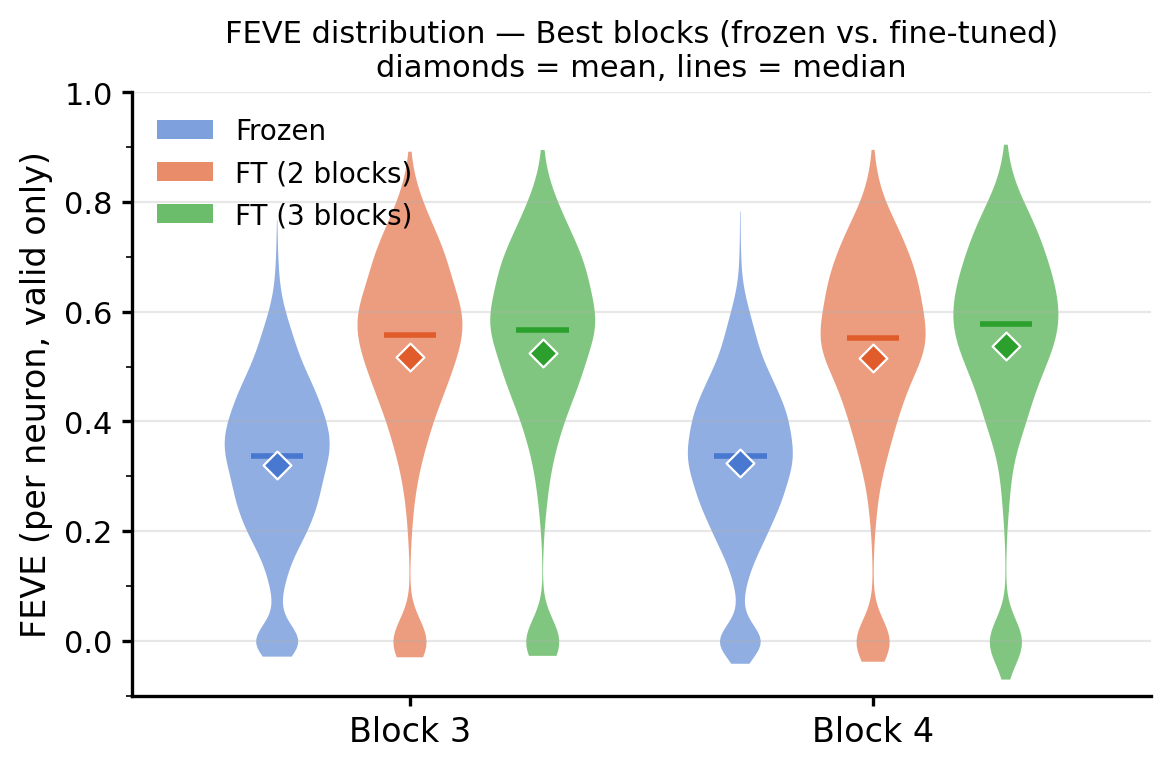
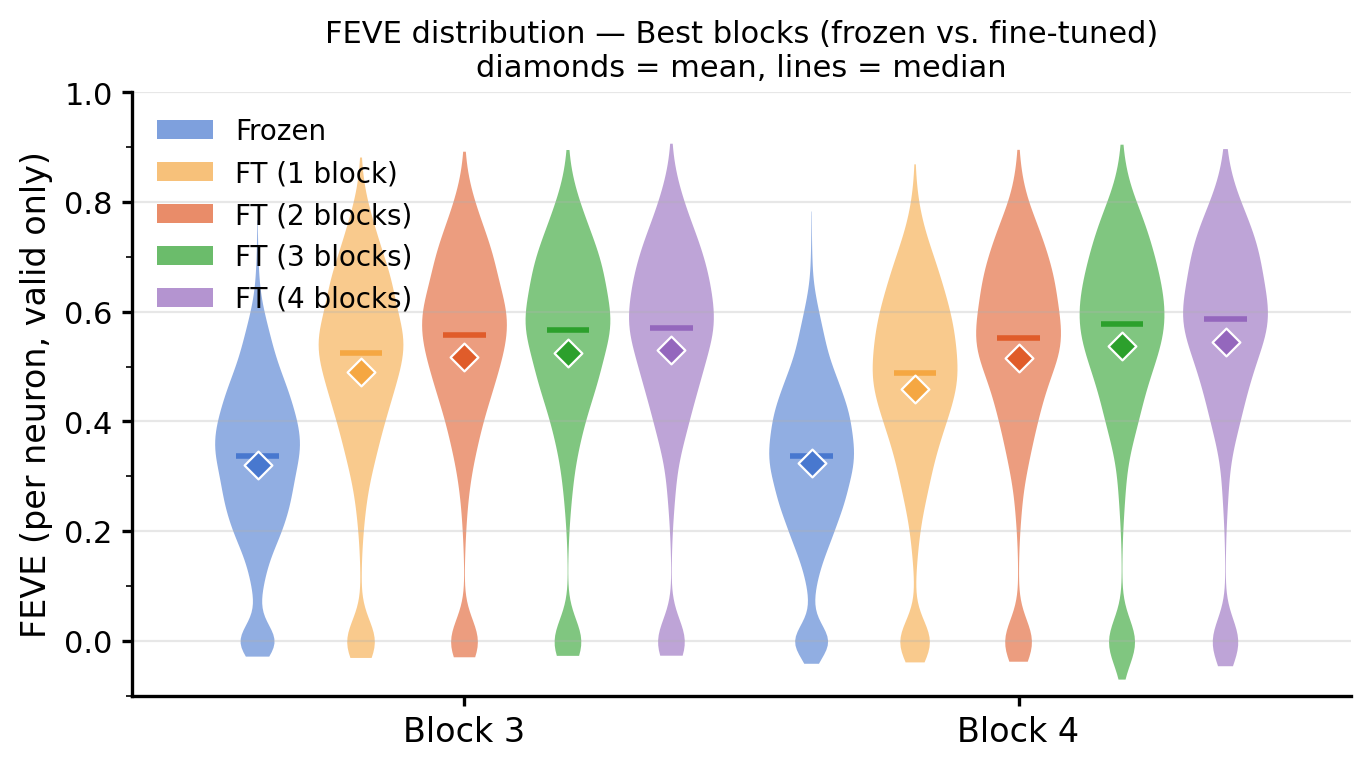
update figures

diff --git a/README.md b/README.md
@@ -5,7 +5,7 @@ Encoding models for mouse primary visual cortex (V1) using a Vision Transformer 
 Two training regimes are compared:
 
 1. **Frozen backbone** — the ViT is used purely as a feature extractor; only the linear readout is trained.
-2. **Fine-tuned backbone** — the last *N* transformer blocks are unfrozen and jointly optimized with the readout at a lower learning rate.
+2. **Fine-tuned backbone** — the last *N* transformer blocks are unfrozen and jointly optimized with the readout at a lower learning rate (experiments: N = 1, 2, 3, 4).
 
 Results are compared against the CNN fullmodel (2-layer depth-separable convolutional core + readout) to assess what large-scale visual pretraining adds to neural predictivity.
 
@@ -71,7 +71,7 @@ The key design choice is that **each 16×16 patch token is treated as one spatia
 
 **Fine-tuned backbone:**
 - Initialized from the frozen-backbone checkpoint (warm-started readout).
-- Last *N* transformer blocks unfrozen (experiments: N=2 and N=3).
+- Last *N* transformer blocks unfrozen (experiments: N = 1, 2, 3, 4).
 - Three learning-rate groups: backbone `lr=1e-5`, readout `lr=1e-3`.
 - LR schedule: CosineAnnealingLR over max 100 epochs.
 - Early stopping (patience = 5, up to 100 epochs).
@@ -86,19 +86,25 @@ All results are on mouse **FX10** (4,792 neurons, 500 held-out test images × 10
 
 <div align="center"><img src="figures/fig1a_frozen_feve_vs_block.png" width="80%"></div>
 
-Frozen ViT-S/16 features extracted from each transformer block. FEVE peaks at **blocks 3–4 (~0.32)**, indicating that low-to-mid-level representations are most predictive of V1 responses. Later blocks encode higher-level semantic content that is less relevant to V1..
+Frozen ViT-S/16 features extracted from each transformer block. FEVE peaks at **block 4 (~0.32)**, indicating that low-to-mid-level representations are most predictive of V1 responses. Performance declines steadily in later blocks as representations become more semantic.
 
 ### Figure 1b — Frozen vs. Fine-tuned ViT-S/16
 
 <div align="center"><img src="figures/fig1b_frozen_vs_ft2_feve_vs_block.png" width="80%"></div>
 
-Fine-tuning the last 2 blocks consistently improves FEVE across different ViT core depths, with the largest gains in early-to-mid blocks. The fine-tuned peak is at **block 3 (~0.39)**, up from ~0.32 frozen. The block-ordering of performance is preserved, confirming that early-block features are still most predictive after fine-tuning. W
+Fine-tuning the last 2 blocks consistently improves FEVE across all ViT depths. The fine-tuned peak rises to **block 3–4 (~0.52)**, up from ~0.32 frozen. The block-ordering of performance is preserved after fine-tuning.
 
 ### Figure 2 — FEVE distribution at best blocks (ViT-S/16)
 
 <div align="center"><img src="figures/fig2_best_blocks_comparison.png" width="80%"></div>
 
-Violin plots of per-neuron FEVE at blocks 3 and 4 across three conditions: Frozen, FT (2 blocks), and FT (3 blocks). Fine-tuning (either 2 or 3 blocks) raises the **mean FEVE from ~0.34 (frozen) to ~0.40 (fine-tuned)** at the best block. Unfreezing 3 blocks gives no clear further advantage over 2 blocks.
+Violin plots of per-neuron FEVE at blocks 3 and 4 across five conditions: Frozen, FT-1, FT-2, FT-3, and FT-4 blocks. Fine-tuning raises the mean FEVE progressively with each additional unfrozen block, from **~0.32 (frozen)** to **~0.54 (FT-4 blocks)**. 
+
+### Figure 2b — Best-block FEVE distribution (ViT-S vs. ViT-B, all fine-tuning levels)
+
+<div align="center"><img src="figures/fig2b_vits_vs_vitb_best_blocks.png" width="100%"></div>
+
+Side-by-side comparison of per-neuron FEVE at the best block for ViT-S/16 and ViT-B/16 across all fine-tuning conditions. In the frozen setting, ViT-B/16 outperforms ViT-S/16 (0.38 vs. 0.32). After fine-tuning 4 blocks, **ViT-S/16 slightly surpasses ViT-B/16** (0.5449 vs. 0.5309), suggesting the smaller model adapts more efficiently.
 
 ### Figure 3 — ViT-S/16 vs. ViT-B/16 (frozen)
 
@@ -106,58 +112,63 @@ Violin plots of per-neuron FEVE at blocks 3 and 4 across three conditions: Froze
 
 Comparing frozen ViT-Small (384-dim) and ViT-Base (768-dim). ViT-B/16 outperforms ViT-S/16 in early-to-mid blocks, peaking at **block 3 (~0.38 vs. ~0.32)**. Both models degrade sharply at later blocks.
 
-### Figure 4 — All four conditions (frozen & fine-tuned, ViT-S and ViT-B)
+### Figure 4 — All conditions (frozen & fine-tuned, ViT-S and ViT-B)
 
 <div align="center"><img src="figures/fig4_vits_vs_vitb_frozen_and_ft_feve_vs_block.png" width="80%"></div>
 
-Full comparison across both model sizes and both training regimes. All four curves peak around blocks 3–4. ViT-B/16 fine-tuned (2 blocks) achieves the highest FEVE at block 3 (~0.41). Fine-tuning narrows the gap between ViT-S and ViT-B. Later blocks (9–11) show divergent behavior after fine-tuning, likely due to overfitting with less-predictive features.
+Full comparison across both model sizes and both training regimes. All curves peak around blocks 3–4. Fine-tuning narrows the gap between ViT-S and ViT-B. Later blocks (9–11) show divergent behavior after fine-tuning, likely due to overfitting with less-predictive features.
 
-### Figure 5 — Best-block FEVE distribution (ViT-S vs. ViT-B)
+### Figure 5 — Best-block FEVE (ViT-S vs. ViT-B, frozen and FT-2)
 
 <div align="center"><img src="figures/fig5_best_block_vits_vs_vitb.png" width="80%"></div>
 
-Per-neuron FEVE at the best block for each model. Fine-tuning improves both architectures; ViT-B/16 fine-tuned achieves the highest mean (~0.42).
+Mean FEVE at the best block, comparing frozen and FT-2-block conditions for both architectures. Fine-tuning 2 blocks roughly doubles the frozen-to-FT gain relative to the old runs, reaching ~0.51 for both ViT-S and ViT-B.
 
 ### Summary table
 
-| Model | FEVE (mean, valid neurons) |
-|---|---|
-| CNN fullmodel (2-layer depth-sep. conv, 16/320 filters) | **0.6654** |
-| ViT-S/16 frozen, best block (block 3 or 4) | ~0.32 |
-| ViT-S/16 fine-tuned 2 blocks, best block (block 3) | ~0.39 |
-| ViT-B/16 frozen, best block (block 3) | ~0.38 |
-| ViT-B/16 fine-tuned 2 blocks, best block (block 3) | **~0.41** (best ViT) |
+| Model | Best block | FEVE (mean, valid neurons) |
+|---|---|---|
+| CNN fullmodel (2-layer depth-sep. conv, 16/320 filters) | — | **0.6654** |
+| ViT-S/16 frozen | 4 | 0.3234 |
+| ViT-S/16 FT-1 block | 3 | 0.4896 |
+| ViT-S/16 FT-2 blocks | 3 | 0.5168 |
+| ViT-S/16 FT-3 blocks | 3 | 0.5255 |
+| ViT-S/16 FT-4 blocks | 4 | **0.5449** (best ViT-S) |
+| ViT-B/16 frozen | 3 | 0.3787 |
+| ViT-B/16 FT-1 block | 3 | 0.4712 |
+| ViT-B/16 FT-2 blocks | 3 | 0.5112 |
+| ViT-B/16 FT-3 blocks | 3 | 0.5293 |
+| ViT-B/16 FT-4 blocks | 3 | 0.5309 |
 
-The best ViT model achieves **0.4076 FEVE**, compared to **0.6654 FEVE** for the CNN fullmodel.
+The best ViT model (ViT-S/16 FT-4 blocks) achieves **0.5449 FEVE**, compared to **0.6654 FEVE** for the CNN fullmodel.
 
 ---
 
 ## Discussion
 
-### Why does the CNN model outperform the ViT by such a large margin?
+### Why does the CNN model still outperform the ViT?
 
-The gap between the CNN fullmodel (FEVE 0.6654) and the best ViT model (FEVE ~0.41) is surprisingly large, especially given that DINOv3 achieves state-of-the-art performance on segmentation benchmarks, which require fine-grained spatial understanding. Several factors may contribute:
+Despite the large improvement from fine-tuning (0.32 → 0.54), the CNN fullmodel (FEVE 0.6654) retains a ~0.12 FEVE advantage. Several factors likely contribute:
 
 #### Spatial resolution and the patch-grid readout
 
-Mouse V1 neurons have spatially localized receptive fields. The CNN fullmodel processes the image at full spatial resolution through convolutional layers, preserving fine-grained spatial structure. In contrast, the ViT-S/16 backbone divides the 64×128 input into a coarse **4×8 grid of 16×16 patches**. By treating each patch token as a single spatial location in the readout, we effectively limit spatial precision to 16-pixel granularity. If a neuron's RF is smaller than or misaligned with a patch boundary, the spatial weight map cannot capture it accurately. The CNN, with its strided convolutions and dense spatial feature maps, is better suited to this regime.
+Mouse V1 neurons have spatially localized receptive fields. The CNN fullmodel processes the image at full spatial resolution through convolutional layers, preserving fine-grained spatial structure. In contrast, the ViT backbone divides the 64×128 input into a coarse **4×8 grid of 16×16 patches**. By treating each patch token as a single spatial location in the readout, we limit spatial precision to 16-pixel granularity. If a neuron's RF is smaller than or misaligned with a patch boundary, the spatial weight map cannot capture it accurately. The CNN, with its strided convolutions and dense spatial feature maps, is better suited to this regime.
 
 #### Self-attention mixes spatial information
 
-In a transformer, every patch token attends to every other patch token. Even for features extracted at early blocks (where FEVE peaks), the representation at each spatial location has already integrated global context through self-attention. The readout assumes that each spatial location (patch) is a relatively independent source of evidence for each neuron. This assumption is more natural for locally-computed CNN features than for globally-mixed transformer tokens. 
-
+In a transformer, every patch token attends to every other patch token. Even at early blocks (where FEVE peaks), each spatial location has already integrated global context through self-attention. This contrasts with V1 neurons, which pool from localized spatial regions.
 
 ### Block-ordering of performance
 
-The consistent FEVE peak at blocks 3–4 (out of 12) for both ViT-S and ViT-B, across both frozen and fine-tuned conditions, is a robust finding. It mirrors results from neural predictivity studies of ImageNet-pretrained ViTs in primate V1/V2: mid-early layers best predict simple-cell responses, while deeper layers are better aligned with higher visual areas (V4, IT). 
+The consistent FEVE peak at blocks 3–4 (out of 12) for both ViT-S and ViT-B, across all fine-tuning levels, is a robust finding. It mirrors results from neural predictivity studies of ImageNet-pretrained ViTs in primate: mid-early layers best predict V1/V2 responses, while deeper layers are better aligned with higher visual areas (V4, IT).
 
 ### Fine-tuning
 
-Fine-tuning 2 transformer blocks consistently improves FEVE across all block indices, suggesting that the pretrained representations can be partially adapted toward neural predictions with only a small learning-rate update. However, the improvement is modest (~0.05–0.07 FEVE), and the gap with the CNN model remains large. 
+Fine-tuning consistently improves FEVE, with gains that accumulate up to 4 unfrozen blocks. The largest single jump is frozen → FT-1 (~0.17 FEVE for ViT-S/16 at block 3), with diminishing returns at FT-3 and FT-4. This suggests that the pretrained representations are substantially adaptable, but additional unfrozen blocks provide only marginal benefit beyond the first few.
 
 ### ViT-S vs. ViT-B
 
-ViT-B/16 (86 M params) outperforms ViT-S/16 (21 M params) in the frozen setting at early-to-mid blocks, but the gap largely closes after fine-tuning. This suggests that the additional representational capacity of ViT-B is beneficial when the features are general-purpose, but the bottleneck at fine-tuning time is the quality of adaptation rather than raw model size.
+ViT-B/16 (86 M params) outperforms ViT-S/16 (21 M params) in the frozen setting at early-to-mid blocks (0.38 vs. 0.32), but the gap reverses slightly after fine-tuning 4 blocks (ViT-S 0.5449 vs. ViT-B 0.5309). This suggests that ViT-S may adapt more efficiently when fine-tuned on relatively small neural datasets comparing to its large-scale pretraining dataset (LVD-142M).
 
 ---
 
@@ -169,7 +180,7 @@ torchvision
 numpy
 scipy
 opencv-python
-transformers    
+transformers
 tqdm
-matplotlib          
+matplotlib
 ```
